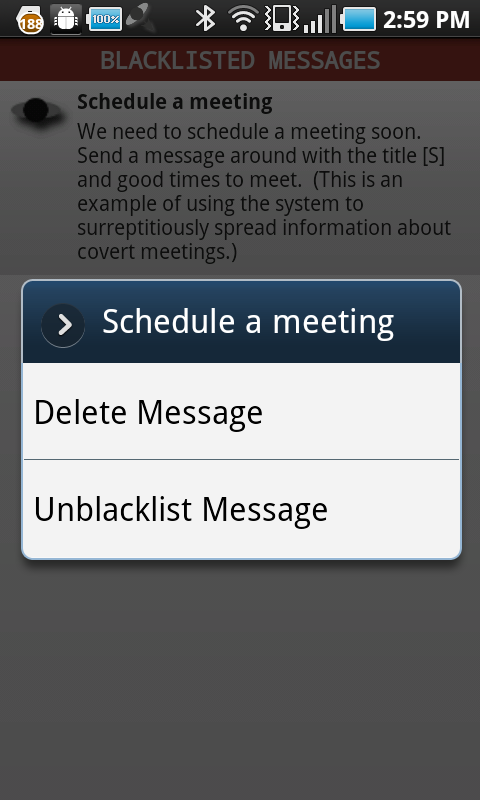
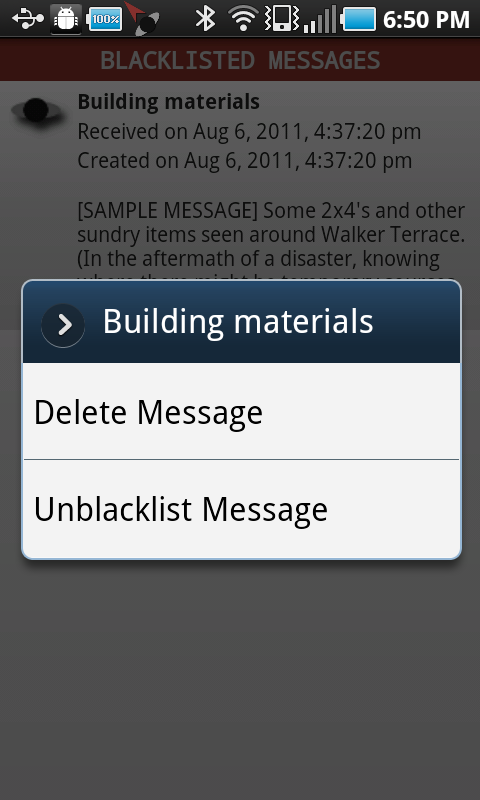
-- fixed bug where I wasn't reading message types :-(

diff --git a/share/FluidNexus/manual/index.html b/share/FluidNexus/manual/index.html
@@ -98,17 +98,18 @@ a:hover {
 <li><a class="reference internal" href="#creating-a-new-message" id="id17">5.1&nbsp;&nbsp;&nbsp;Creating a new message</a></li>
 <li><a class="reference internal" href="#editing-messages" id="id18">5.2&nbsp;&nbsp;&nbsp;Editing Messages</a></li>
 <li><a class="reference internal" href="#preferences" id="id19">5.3&nbsp;&nbsp;&nbsp;Preferences</a><ul class="auto-toc">
-<li><a class="reference internal" href="#network" id="id20">5.3.1&nbsp;&nbsp;&nbsp;Network</a></li>
-<li><a class="reference internal" href="#id2" id="id21">5.3.2&nbsp;&nbsp;&nbsp;Bluetooth</a></li>
-<li><a class="reference internal" href="#scan-frequency" id="id22">5.3.3&nbsp;&nbsp;&nbsp;Scan Frequency</a></li>
-<li><a class="reference internal" href="#id3" id="id23">5.3.4&nbsp;&nbsp;&nbsp;Nexus</a></li>
+<li><a class="reference internal" href="#general" id="id20">5.3.1&nbsp;&nbsp;&nbsp;General</a></li>
+<li><a class="reference internal" href="#network" id="id21">5.3.2&nbsp;&nbsp;&nbsp;Network</a></li>
+<li><a class="reference internal" href="#id2" id="id22">5.3.3&nbsp;&nbsp;&nbsp;Bluetooth</a></li>
+<li><a class="reference internal" href="#scan-frequency" id="id23">5.3.4&nbsp;&nbsp;&nbsp;Scan Frequency</a></li>
+<li><a class="reference internal" href="#id3" id="id24">5.3.5&nbsp;&nbsp;&nbsp;Nexus</a></li>
 </ul>
 </li>
 </ul>
 </li>
-<li><a class="reference internal" href="#technical-information" id="id24">6&nbsp;&nbsp;&nbsp;Technical Information</a><ul class="auto-toc">
-<li><a class="reference internal" href="#protocol-buffer-implementation" id="id25">6.1&nbsp;&nbsp;&nbsp;Protocol Buffer implementation</a></li>
-<li><a class="reference internal" href="#network-modalities" id="id26">6.2&nbsp;&nbsp;&nbsp;Network Modalities</a></li>
+<li><a class="reference internal" href="#technical-information" id="id25">6&nbsp;&nbsp;&nbsp;Technical Information</a><ul class="auto-toc">
+<li><a class="reference internal" href="#protocol-buffer-implementation" id="id26">6.1&nbsp;&nbsp;&nbsp;Protocol Buffer implementation</a></li>
+<li><a class="reference internal" href="#network-modalities" id="id27">6.2&nbsp;&nbsp;&nbsp;Network Modalities</a></li>
 </ul>
 </li>
 </ul>
@@ -279,8 +280,13 @@ a:hover {
 <div class="section" id="preferences">
 <h2><a class="toc-backref" href="#id19">5.3&nbsp;&nbsp;&nbsp;Preferences</a></h2>
 <p>Both the Android and the Desktop applications have preferences that allow you to control how the applications behave.</p>
+<div class="section" id="general">
+<h3><a class="toc-backref" href="#id20">5.3.1&nbsp;&nbsp;&nbsp;General</a></h3>
+<p>On both Android and the Desktop is an option whether or not to pass along messages you have blacklisted.  If checked, blacklisted messages will be sent.</p>
+<p>On Android you additionally have an option to vibrate when new messages arrive.</p>
+</div>
 <div class="section" id="network">
-<h3><a class="toc-backref" href="#id20">5.3.1&nbsp;&nbsp;&nbsp;Network</a></h3>
+<h3><a class="toc-backref" href="#id21">5.3.2&nbsp;&nbsp;&nbsp;Network</a></h3>
 <p>The &quot;Network&quot; section provides checkboxes to enable or disable particular network modalities.  Fluid Nexus is opportunistic and tries to use whatever modality is available to spread messages.  Multiple modalities can run in parallel without problems.  At the moment we have implemented three modalities:</p>
 <ul class="simple">
 <li><a class="reference external" href="https://secure.wikimedia.org/wikipedia/en/wiki/Bluetooth">Bluetooth</a>: connects to nearby devices running Fluid Nexus.  On Android, attempts to connect to paired Bluetooth devices only.</li>
@@ -298,11 +304,11 @@ a:hover {
 <p>Ad-Hoc Wifi is still under development.</p>
 </div>
 <div class="section" id="id2">
-<h3><a class="toc-backref" href="#id21">5.3.2&nbsp;&nbsp;&nbsp;Bluetooth</a></h3>
+<h3><a class="toc-backref" href="#id22">5.3.3&nbsp;&nbsp;&nbsp;Bluetooth</a></h3>
 <p>For the Android version you have the additional option to only connect to previously paired or &quot;bonded&quot; devices.  This will skip the device discovery step.  While saving battery life, connecting to bonded devices also adds a small layer of security by only sharing data between devices that you already know about.</p>
 </div>
 <div class="section" id="scan-frequency">
-<h3><a class="toc-backref" href="#id22">5.3.3&nbsp;&nbsp;&nbsp;Scan Frequency</a></h3>
+<h3><a class="toc-backref" href="#id23">5.3.4&nbsp;&nbsp;&nbsp;Scan Frequency</a></h3>
 <p>For each of the network modalities (with the exception of &quot;Nexus&quot;) you also have the possibility of setting the &quot;Scan Frequency&quot;; this is the amount of time between successive scans for nearby devices.  Lower values mean more frequent scans.  On Android, low values for the <a class="reference external" href="https://secure.wikimedia.org/wikipedia/en/wiki/Bluetooth">Bluetooth</a> Scan Frequency will <em>severely</em> impact battery life.</p>
 <div class="figure">
 <img alt="android bluetooth scan frequency" src="images/android_preferences_bluetooth_scan_frequency.png" style="width: 400px;" />
@@ -314,7 +320,7 @@ a:hover {
 </div>
 </div>
 <div class="section" id="id3">
-<h3><a class="toc-backref" href="#id23">5.3.4&nbsp;&nbsp;&nbsp;Nexus</a></h3>
+<h3><a class="toc-backref" href="#id24">5.3.5&nbsp;&nbsp;&nbsp;Nexus</a></h3>
 <p>Finally, the &quot;Nexus&quot; section allows you to set your key and secret for posting to the Nexus.  To set this up, first register for an account at <a class="reference external" href="http://fluidnexus.net">http://fluidnexus.net</a> (by either creating a new account there or by logging in using your Google Account).  Then, on your user page click &quot;Request  a key and secret&quot;.  Enter these 20-digit numbers into the corresponding boxes in your Android or Desktop application.</p>
 <div class="figure">
 <img alt="android nexus preferences" src="images/android_preferences_nexus.png" style="width: 400px;" />
@@ -338,9 +344,9 @@ a:hover {
 </div>
 </div>
 <div class="section" id="technical-information">
-<h1><a class="toc-backref" href="#id24">6&nbsp;&nbsp;&nbsp;Technical Information</a></h1>
+<h1><a class="toc-backref" href="#id25">6&nbsp;&nbsp;&nbsp;Technical Information</a></h1>
 <div class="section" id="protocol-buffer-implementation">
-<h2><a class="toc-backref" href="#id25">6.1&nbsp;&nbsp;&nbsp;Protocol Buffer implementation</a></h2>
+<h2><a class="toc-backref" href="#id26">6.1&nbsp;&nbsp;&nbsp;Protocol Buffer implementation</a></h2>
 <p>Fluid Nexus uses protocol buffers to share data.  The following documents our message format:</p>
 <pre class="literal-block">
 message FluidNexusHashes {
@@ -378,7 +384,7 @@ message FluidNexusMessages {
 <p>The application uses a SHA1 hash of the message title and message content to determine whether or not the message needs to be exchanged.  These hashes are first exchanged between devices to determine what needs to be sent.  Thus Fluid Nexus uses a type of <a class="reference external" href="https://secure.wikimedia.org/wikipedia/en/wiki/Distributed_hash_table">distributed hash table</a> with the goal of replicating the entire table amongst all devices.</p>
 </div>
 <div class="section" id="network-modalities">
-<h2><a class="toc-backref" href="#id26">6.2&nbsp;&nbsp;&nbsp;Network Modalities</a></h2>
+<h2><a class="toc-backref" href="#id27">6.2&nbsp;&nbsp;&nbsp;Network Modalities</a></h2>
 <p>Fluid Nexus currently works using <a class="reference external" href="https://secure.wikimedia.org/wikipedia/en/wiki/Bluetooth">Bluetooth</a> and <a class="reference external" href="http://fluidnexus.net/favicon.ico">Zeroconf</a> service discovery, with Ad-Hoc Wifi to be developed.  Android requires Bluetooth devices to be paired before any data sharing can occur.  On the Desktop, sharing between <em>discoverable</em> Linux devices does not require pairing beforehand.  (Windows is to be determined.)  Zeroconf does not require any pairing and thus messages will be shared between any device running Fluid Nexus and discoverable using Zeroconf service discovery.</p>
 <!-- - - - - - - - - - - - - - - - - - - - - - - - - - - - - - -->
 <!-- FOOTER -->
@@ -389,7 +395,7 @@ message FluidNexusMessages {
 <div class="footer">
 <hr class="footer" />
 Document generated from <a class="reference external" href="http://docutils.sourceforge.net/rst.html">reStructuredText</a> plaintext markup source
-on 2011-08-06 at 16:43:34.
+on 2011-08-06 at 20:50:50.
 </div>
 </body>
 </html>

diff --git a/FluidNexus/Networking.py b/FluidNexus/Networking.py
@@ -112,6 +112,14 @@ class Networking(object):
     SWITCH = 0x0080
     DONE = 0x00F0
 
+    # Enum types
+    message_types = {
+        0: FluidNexus_pb2.FluidNexusMessage.TEXT,
+        1: FluidNexus_pb2.FluidNexusMessage.AUDIO,
+        2: FluidNexus_pb2.FluidNexusMessage.IMAGE,
+        3: FluidNexus_pb2.FluidNexusMessage.VIDEO,
+    }
+
     commandStruct = struct.Struct('>H')
     sizeStruct = struct.Struct('>I')
     hashStruct = struct.Struct('>32s')
@@ -260,7 +268,7 @@ class Networking(object):
             m.message_received_timestamp = data['received_time']
             m.message_title = data['title']
             m.message_content = data['content']
-            m.message_type = FluidNexus_pb2.FluidNexusMessage.TEXT
+            m.message_type = self.message_types[data["message_type"]]
             m.message_public = data["public"]
 
             if (data["public"]):
@@ -342,8 +350,8 @@ class Networking(object):
                         message.message_ttl = message.message_ttl - 1
 
                     if (not self.database.checkForMessageByHash(message_hash)):
-                        self.database.addReceived(timestamp = message.message_timestamp, received_timestamp = time.time(), title = message.message_title, content = message.message_content, attachment_path = message_attachment_path, attachment_original_filename = message.message_attachment_original_filename, public = message.message_public, ttl = message.message_ttl)
-                        newMessage = {"message_hash": message_hash, "message_timestamp": message.message_timestamp, "message_received_timestamp": message.message_received_timestamp, "message_title": message.message_title, "message_content": message.message_content, "message_attachment_path": message_attachment_path, "message_attachment_original_filename": message.message_attachment_original_filename, "message_public": message.message_public, "message_ttl": message.message_ttl}
+                        self.database.addReceived(message_type = message.message_type, timestamp = message.message_timestamp, received_timestamp = time.time(), title = message.message_title, content = message.message_content, attachment_path = message_attachment_path, attachment_original_filename = message.message_attachment_original_filename, public = message.message_public, ttl = message.message_ttl)
+                        newMessage = {"message_type": message.message_type, "message_hash": message_hash, "message_timestamp": message.message_timestamp, "message_received_timestamp": message.message_received_timestamp, "message_title": message.message_title, "message_content": message.message_content, "message_attachment_path": message_attachment_path, "message_attachment_original_filename": message.message_attachment_original_filename, "message_public": message.message_public, "message_ttl": message.message_ttl}
                         self.newMessages.append(newMessage)
                 else:
                     # Decrement TTL
@@ -351,8 +359,8 @@ class Networking(object):
                         message.message_ttl = message.message_ttl - 1
 
                     if (not self.database.checkForMessageByHash(message_hash)):
-                        self.database.addReceived(timestamp = message.message_timestamp, received_timestamp = time.time(), title = message.message_title, content = message.message_content, public = message.message_public, ttl = message.message_ttl)
-                        newMessage = {"message_hash": message_hash, "message_timestamp": message.message_timestamp, "message_received_timestamp": message.message_received_timestamp, "message_title": message.message_title, "message_content": message.message_content, "message_attachment_path": "", "message_attachment_original_filename": "", "message_public": message.message_public, "message_ttl": message.message_ttl}
+                        self.database.addReceived(message_type = message.message_type, timestamp = message.message_timestamp, received_timestamp = time.time(), title = message.message_title, content = message.message_content, public = message.message_public, ttl = message.message_ttl)
+                        newMessage = {"message_type": message.message_type, "message_hash": message_hash, "message_timestamp": message.message_timestamp, "message_received_timestamp": message.message_received_timestamp, "message_title": message.message_title, "message_content": message.message_content, "message_attachment_path": "", "message_attachment_original_filename": "", "message_public": message.message_public, "message_ttl": message.message_ttl}
                         self.newMessages.append(newMessage)
 
         self.getHashesFromDatabase()
